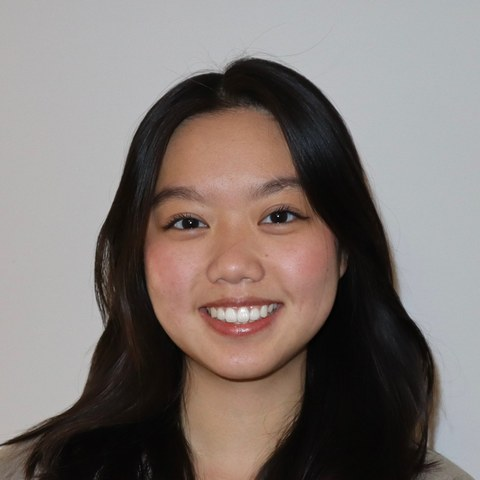
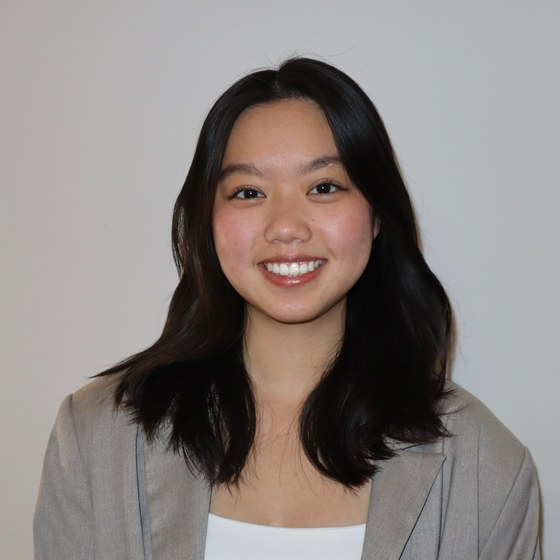
Zoom out profile photo and enlarge circle
Claude-Session: https://claude.ai/code/session_01R5UTMNXf7vF21BKM4pvTet

diff --git a/assets/css/style.css b/assets/css/style.css
@@ -68,8 +68,8 @@ h3 { font-size: 1.05rem; margin: 24px 0 8px; }
   align-items: flex-start;
 }
 .profile img {
-  width: 180px;
-  height: 180px;
+  width: 220px;
+  height: 220px;
   object-fit: cover;
   border-radius: 50%;
   flex-shrink: 0;
